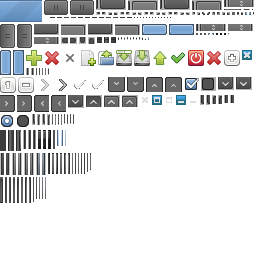
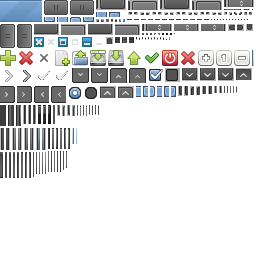
Scrollbar improvements. Minor fixes.

Changed region(s): [[0.0, 0.0312, 1.0, 0.8125], [0.875, 0.0938, 1.0, 0.125]]

diff --git a/src/eepp/ui/uilistbox.cpp b/src/eepp/ui/uilistbox.cpp
@@ -174,7 +174,7 @@ void UIListBox::setTheme( UITheme * Theme ) {
 
 void UIListBox::autoPadding() {
 	if ( mFlags & UI_AUTO_PADDING ) {
-		mPaddingContainer = makePadding();
+		mPaddingContainer = pxToDpI( makePadding() );
 	}
 }
 
@@ -227,8 +227,8 @@ Uint32 UIListBox::addListBoxItem( const String& Text ) {
 	if ( NULL != mFont ) {
 		Uint32 twidth = mFont->getTextWidth( Text );
 
-		if ( twidth > (Uint32)dpToPxI( mMaxTextWidth ) ) {
-			mMaxTextWidth = (Uint32)pxToDpI( twidth );
+		if ( twidth > mMaxTextWidth ) {
+			mMaxTextWidth = twidth;
 
 			updateListBoxItemsSize();
 		}
@@ -310,8 +310,8 @@ void UIListBox::clear() {
 	mSelected.clear();
 	mVScrollBar->setValue(0);
 
-	updateScroll();
 	findMaxWidth();
+	updateScroll();
 	updateListBoxItemsSize();
 
 	sendCommonEvent( UIEvent::EventOnControlClear );
@@ -361,7 +361,7 @@ void UIListBox::onSizeChange() {
 	mHScrollBar->setSize( mSize.getWidth() - mVScrollBar->getSize().getWidth() + mHScrollPadding.Right, mHScrollBar->getSize().getHeight() + mHScrollPadding.Bottom );
 
 	if ( mContainer->isClipped() && UI_SCROLLBAR_AUTO == mHScrollMode ) {
-		if ( (Int32)mMaxTextWidth <= mContainer->getSize().getWidth() ) {
+		if ( (Int32)mMaxTextWidth <= mContainer->getRealSize().getWidth() ) {
 			mHScrollBar->setVisible( false );
 			mHScrollBar->setEnabled( false );
 			mHScrollInit = 0;
@@ -397,6 +397,19 @@ void UIListBox::setRowHeight() {
 	}
 }
 
+void UIListBox::setHScrollStep() {
+	Float width = (Float)mContainer->getRealSize().getWidth();
+
+	if ( ( mItemsNotVisible > 0 && UI_SCROLLBAR_AUTO == mVScrollMode ) || UI_SCROLLBAR_ALWAYS_ON == mVScrollMode )
+		width -= mVScrollBar->getRealSize().getWidth();
+
+	Float stepVal = width / (Float)mMaxTextWidth;
+
+	mHScrollBar->setPageStep( stepVal );
+
+	mHScrollBar->setClickStep( stepVal );
+}
+
 void UIListBox::findMaxWidth() {
 	Uint32 size = (Uint32)mItems.size();
 	Int32 width;
@@ -409,8 +422,8 @@ void UIListBox::findMaxWidth() {
 		else
 			width = mFont->getTextWidth( mTexts[i] );
 
-		if ( width > dpToPxI( mMaxTextWidth ) )
-			mMaxTextWidth = (Uint32)pxToDpI( width );
+		if ( width > (Int32)mMaxTextWidth )
+			mMaxTextWidth = width;
 	}
 }
 
@@ -425,8 +438,9 @@ void UIListBox::itemUpdateSize( UIListBoxItem * Item ) {
 	if ( NULL != Item ) {
 		Int32 width = (Int32)Item->getTextWidth();
 
-		if ( width > dpToPxI( mMaxTextWidth ) )
-			mMaxTextWidth = (Uint32)pxToDpI( width );
+		if ( width > (Int32)mMaxTextWidth ) {
+			mMaxTextWidth = width;
+		}
 
 		if ( !mHScrollBar->isVisible() ) {
 			if ( width < mContainer->getSize().getWidth() )
@@ -503,8 +517,8 @@ void UIListBox::updateScroll( bool FromScrollChange ) {
 	}
 
 	if ( Clipped && ( UI_SCROLLBAR_AUTO == mHScrollMode || UI_SCROLLBAR_ALWAYS_ON == mHScrollMode ) ) {
-		if ( ( mVScrollBar->isVisible() && mContainer->getSize().getWidth() - mVScrollBar->getSize().getWidth() < (Int32)mMaxTextWidth ) ||
-			( !mVScrollBar->isVisible() && mContainer->getSize().getWidth() < (Int32)mMaxTextWidth ) ) {
+		if ( ( mVScrollBar->isVisible() && mContainer->getRealSize().getWidth() - mVScrollBar->getRealSize().getWidth() < (Int32)mMaxTextWidth ) ||
+			( !mVScrollBar->isVisible() && mContainer->getRealSize().getWidth() < (Int32)mMaxTextWidth ) ) {
 				mHScrollBar->setVisible( true );
 				mHScrollBar->setEnabled( true );
 
@@ -513,9 +527,9 @@ void UIListBox::updateScroll( bool FromScrollChange ) {
 				Int32 ScrollH;
 
 				if ( mVScrollBar->isVisible() )
-					ScrollH = mMaxTextWidth - mContainer->getSize().getWidth() + mVScrollBar->getSize().getWidth();
+					ScrollH = pxToDpI( mMaxTextWidth ) - mContainer->getSize().getWidth() + mVScrollBar->getSize().getWidth();
 				else
-					ScrollH = mMaxTextWidth - mContainer->getSize().getWidth();
+					ScrollH = pxToDpI( mMaxTextWidth ) - mContainer->getSize().getWidth();
 
 				Int32 HScrolleable = (Uint32)( mHScrollBar->getValue() * ScrollH );
 
@@ -640,6 +654,8 @@ void UIListBox::updateScroll( bool FromScrollChange ) {
 		mHScrollBar->setPosition( mHScrollPadding.Left, mSize.getHeight() - mHScrollBar->getSize().getHeight() + mHScrollPadding.Top );
 		mHScrollBar->setSize( mSize.getWidth() - mVScrollBar->getSize().getWidth() + mHScrollPadding.Right, mHScrollBar->getSize().getHeight() + mHScrollPadding.Bottom );
 	}
+
+	setHScrollStep();
 }
 
 void UIListBox::itemKeyEvent( const UIEventKey &Event ) {

diff --git a/src/test/eetest.cpp b/src/test/eetest.cpp
@@ -159,7 +159,7 @@ void EETest::createUIThemeTextureAtlas() {
 	std::string Path( MyPath + "ui/" + mThemeName );
 
 	if ( !FileSystem::fileExists( tgpath + EE_TEXTURE_ATLAS_EXTENSION ) ) {
-		TexturePacker tp( 256, 256, true, 2 );
+		TexturePacker tp( 512, 512, true, 2 );
 		tp.addTexturesPath( Path );
 		tp.packTextures();
 		tp.save( tgpath + ".png", SAVE_TYPE_PNG );
@@ -286,7 +286,7 @@ void EETest::createUI() {
 			str[i-1] = "Test ListBox " + String::toStr(i) + " testing it right now!";
 	}
 
-	/*
+
 	UIControl::CreateParams Params( UIManager::instance()->getMainControl(), Vector2i(0,0), Sizei( 530, 380 ), UI_FILL_BACKGROUND | UI_CLIP_ENABLE | UI_BORDER );
 
 	Params.Border.setWidth( 2 );
@@ -547,7 +547,7 @@ void EETest::createUI() {
 	TxtGfxParams.Flags = UI_VALIGN_CENTER | UI_HALIGN_CENTER;
 	TxtGfxParams.SubTexture = mTheme->getIconByName( "ok" );
 
-	for ( Uint32 i = 0; i < 100; i++ ) {
+	for ( Uint32 i = 0; i < 15; i++ ) {
 		UIGridCell * Cell			= eeNew( UIGridCell, ( CellParams ) );
 		UITextBox * TxtBox			= eeNew( UITextBox, ( TxtBoxParams ) );
 		UITextInput * TxtInput		= eeNew( UITextInput, ( TxtInputParams ) );
@@ -587,6 +587,7 @@ void EETest::createUI() {
 	eePRINTL( "CreateUI time: %4.3f ms.", TE.getElapsed().asMilliseconds() );
 	/**/
 
+	/**/
 	UIRadioButton * ctrl = eeNew( UIRadioButton, () );
 	ctrl->setPosition( 100, 100 );
 	ctrl->setSize( 320, 32 );
@@ -658,7 +659,7 @@ void EETest::createUI() {
 
 	UIListBox * listBox = eeNew( UIListBox, () );
 	listBox->setPosition( 50, 320 );
-	listBox->setSize( 100, 160 );
+	listBox->setSize( 200, 160 );
 	listBox->setVisible( true );
 	listBox->setEnabled( true );
 	listBox->addListBoxItems( str );

diff --git a/src/eepp/ui/uigenericgrid.cpp b/src/eepp/ui/uigenericgrid.cpp
@@ -207,6 +207,27 @@ void UIGenericGrid::updateHScroll() {
 	}
 }
 
+void UIGenericGrid::setHScrollStep() {
+	Float width = (Float)mContainer->getRealSize().getWidth();
+
+	if ( ( mItemsNotVisible > 0 && UI_SCROLLBAR_AUTO == mVScrollMode ) || UI_SCROLLBAR_ALWAYS_ON == mVScrollMode )
+		width -= mVScrollBar->getRealSize().getWidth();
+
+	Float maxWidth = 0;
+
+	if ( mCollumnsCount > 0 ) {
+		for ( Uint32 i = 0; i < mCollumnsCount; i++ ) {
+			maxWidth += mCollumnsWidth[i];
+		}
+	}
+
+	Float stepVal = width / (Float)maxWidth;
+
+	mHScrollBar->setPageStep( stepVal );
+
+	mHScrollBar->setClickStep( stepVal );
+}
+
 void UIGenericGrid::updateScroll( bool FromScrollChange ) {
 	if ( !mItems.size() )
 		return;
@@ -309,6 +330,8 @@ void UIGenericGrid::updateScroll( bool FromScrollChange ) {
 		mHScrollBar->setPosition( 0, mSize.getHeight() - mHScrollBar->getSize().getHeight() );
 		mHScrollBar->setSize( mSize.getWidth() - mVScrollBar->getSize().getWidth(), mHScrollBar->getSize().getHeight() );
 	}
+
+	setHScrollStep();
 }
 
 void UIGenericGrid::updateSize() {
@@ -330,6 +353,8 @@ void UIGenericGrid::add( UIGridCell * Cell ) {
 	updateSize();
 
 	updateScroll();
+
+	mVScrollBar->setPageStep( ( (Float)mContainer->getSize().getHeight() /(Float) mRowHeight ) / (Float)mItems.size() );
 }
 
 void UIGenericGrid::remove( UIGridCell * Cell ) {

diff --git a/src/eepp/ui/uiskincomplex.cpp b/src/eepp/ui/uiskincomplex.cpp
@@ -147,7 +147,6 @@ void UISkinComplex::setSkin( const Uint32& State ) {
 	eeASSERT ( State < UISkinState::StateCount );
 
 	for ( Uint32 Side = 0; Side < SideCount; Side++ ) {
-
 		SubTexture * SubTexture = TextureAtlasManager::instance()->getSubTextureByName( std::string( mName + "_" + UISkin::getSkinStateName( State ) + "_" + SideSuffix[ Side ] ) );
 
 		if ( NULL != SubTexture )
@@ -168,7 +167,7 @@ SubTexture * UISkinComplex::getSubTextureSide( const Uint32& State, const Uint32
 }
 
 void UISkinComplex::stateNormalToState( const Uint32& State ) {
-	if ( NULL == mSubTexture[ State ][ 0 ] ) {
+	if ( NULL == mSubTexture[ State ][ Center ] ) {
 		for ( Uint32 Side = 0; Side < SideCount; Side++ ) {
 			mSubTexture[ State ][ Side ] = mSubTexture[ UISkinState::StateNormal ][ Side ];
 		}

diff --git a/src/eepp/ui/uislider.cpp b/src/eepp/ui/uislider.cpp
@@ -21,7 +21,7 @@ UISlider::UISlider( const UISlider::CreateParams& Params ) :
 	UIControl::CreateParams BgParams;
 	BgParams.setParent( this );
 
-	if ( !mOrientation )
+	if ( UI_HORIZONTAL == mOrientation )
 		BgParams.Size = Sizei( mSize.getWidth() - 16, 8 );
 	else
 		BgParams.Size = Sizei( 8, mSize.getHeight() - 16 );
@@ -41,7 +41,7 @@ UISlider::UISlider( const UISlider::CreateParams& Params ) :
 	mSlider->setVisible( true );
 	mSlider->setDragEnabled( true );
 
-	if ( !mOrientation )
+	if ( UI_HORIZONTAL == mOrientation )
 		mSlider->centerVertical();
 	else
 		mSlider->centerHorizontal();

diff --git a/src/eepp/gaming/mapeditor/mapeditor.cpp b/src/eepp/gaming/mapeditor/mapeditor.cpp
@@ -811,6 +811,8 @@ void MapEditor::OnMapSizeChange( const UIEvent *Event ) {
 	mMapVScroll->setMinValue( 0 );
 	mMapVScroll->setMaxValue( v.y );
 	mMapVScroll->setClickStep( mUIMap->Map()->getTileSize().getHeight() * mUIMap->Map()->getScale() );
+	mMapHScroll->setPageStep( (Float)mUIMap->Map()->getViewSize().getWidth() );
+	mMapVScroll->setPageStep( (Float)mUIMap->Map()->getViewSize().getHeight() );
 }
 
 void MapEditor::OnScrollMapH( const UIEvent * Event ) {

diff --git a/include/eepp/ui/uilistbox.hpp b/include/eepp/ui/uilistbox.hpp
@@ -236,6 +236,8 @@ class EE_API UIListBox : public UIComplexControl {
 		virtual Uint32 onKeyDown( const UIEventKey &Event );
 
 		void itemKeyEvent( const UIEventKey &Event );
+
+		void setHScrollStep();
 };
 
 }}

diff --git a/include/eepp/ui/uigenericgrid.hpp b/include/eepp/ui/uigenericgrid.hpp
@@ -157,6 +157,8 @@ class EE_API UIGenericGrid : public UIComplexControl {
 		void updateVScroll();
 
 		void updateHScroll();
+
+		void setHScrollStep();
 };
 
 }}
